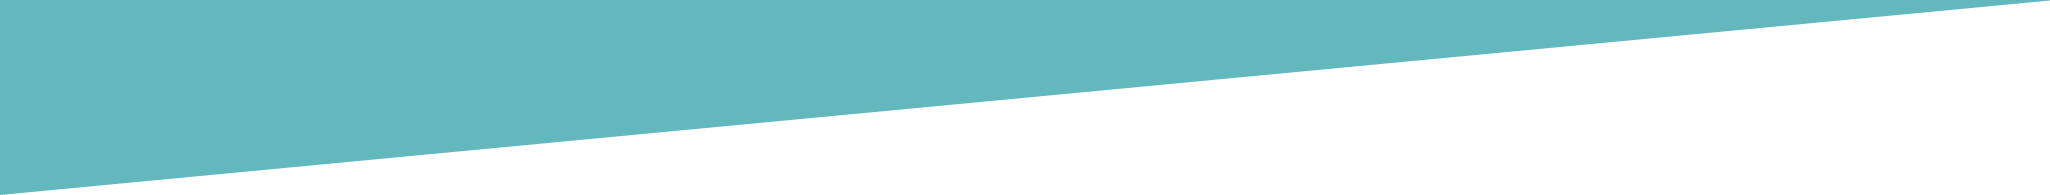
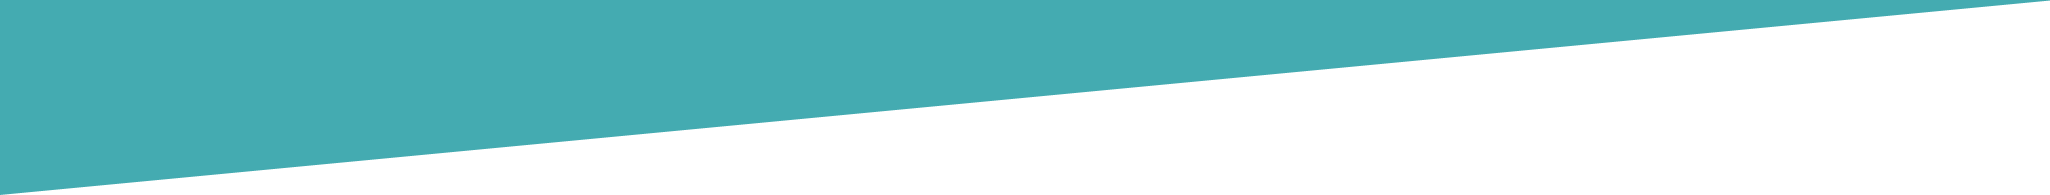
some change
修改了：
表单输入提示文字的显示
产品特色的背景
我们的故事的间距

diff --git a/index.html b/index.html
@@ -68,7 +68,7 @@
 					<input class="request-submit" type="submit">
 				</span>
 			</div>
-			<span style="color:red">请输入正确的地址</span>
+			<span class="warm-error">请输入正确的地址</span>
 		</div>
 	</section>
 
@@ -222,16 +222,19 @@
 						<input type="text" class="form-control">
 						
 					</div>
+					<span class="warm-error">请输入正确的地址</span>
 					<div class="input-group">
 						<span class="input-group-addon"><span class="glyphicon glyphicon-envelope"></span></span>
 						<input type="text" class="form-control">
 						
 					</div>
+					<span class="warm-error">请输入正确的地址</span>
 					<div class="input-group">
 						<span class="input-group-addon"><span class="glyphicon glyphicon-earphone"></span></span>
 						<input type="text" class="form-control">
 						
 					</div>
+					<span class="warm-error">请输入正确的地址</span>
 				</div>
 				<div class="col-sm-6 col-sm-offset-1">
 					<div class="input-group">
@@ -241,8 +244,9 @@
 							<input class="request-submit" type="submit">
 						</span>
 					</div>
+					<span class="warm-error">请输入正确的地址</span>
 				</div>
-				<span style="color:red; float:right;padding-right:30px;">请输入正确的地址</span>
+				
 			</div>
 		</div>
 	</section>

diff --git a/css/main.css b/css/main.css
@@ -42,7 +42,7 @@ nav{
 	margin-top: 23px;
 }
 .green-back{
-	background-color: #63B8BD;
+	background-color: #44abb1;
 	position: relative;
 	color: #fff;
 }
@@ -139,6 +139,7 @@ h2{
 }
 .develop h2{
 	margin-top: 0;
+	margin-bottom: 50px;
 }
 .green-back .char-icon{
 	color:#333;
@@ -264,8 +265,8 @@ h2{
 	color: rgb(154, 167, 175);
 }
 .develop{
-	padding-top: 190px;
-	padding-bottom: 36px;
+	padding-top: 300px;
+	padding-bottom: 170px;
 	margin-top: -190px;
 }
 .develop:before{
@@ -840,4 +841,22 @@ footer{
 }
 .change-page:hover .rotate135{
 	background-color: #63B8BD;
+}
+
+
+
+.warm-error{
+	color: #F03232;
+}
+.contact .warm-error{
+	display: block;
+	margin-top: -15px;
+	margin-bottom: 10px;
+}
+@media (max-width: 768px){
+	.title-back .warm-error{
+		display: block;
+		text-align: center;
+	}
+
 }

diff --git a/product.html b/product.html
@@ -98,7 +98,7 @@
 					<input class="request-submit" type="submit">
 				</span>
 			</div>
-			<span style="color:red">请输入正确的地址</span>
+			<span class="warm-error">请输入正确的地址</span>
 		</div>
 	</section>
 	
